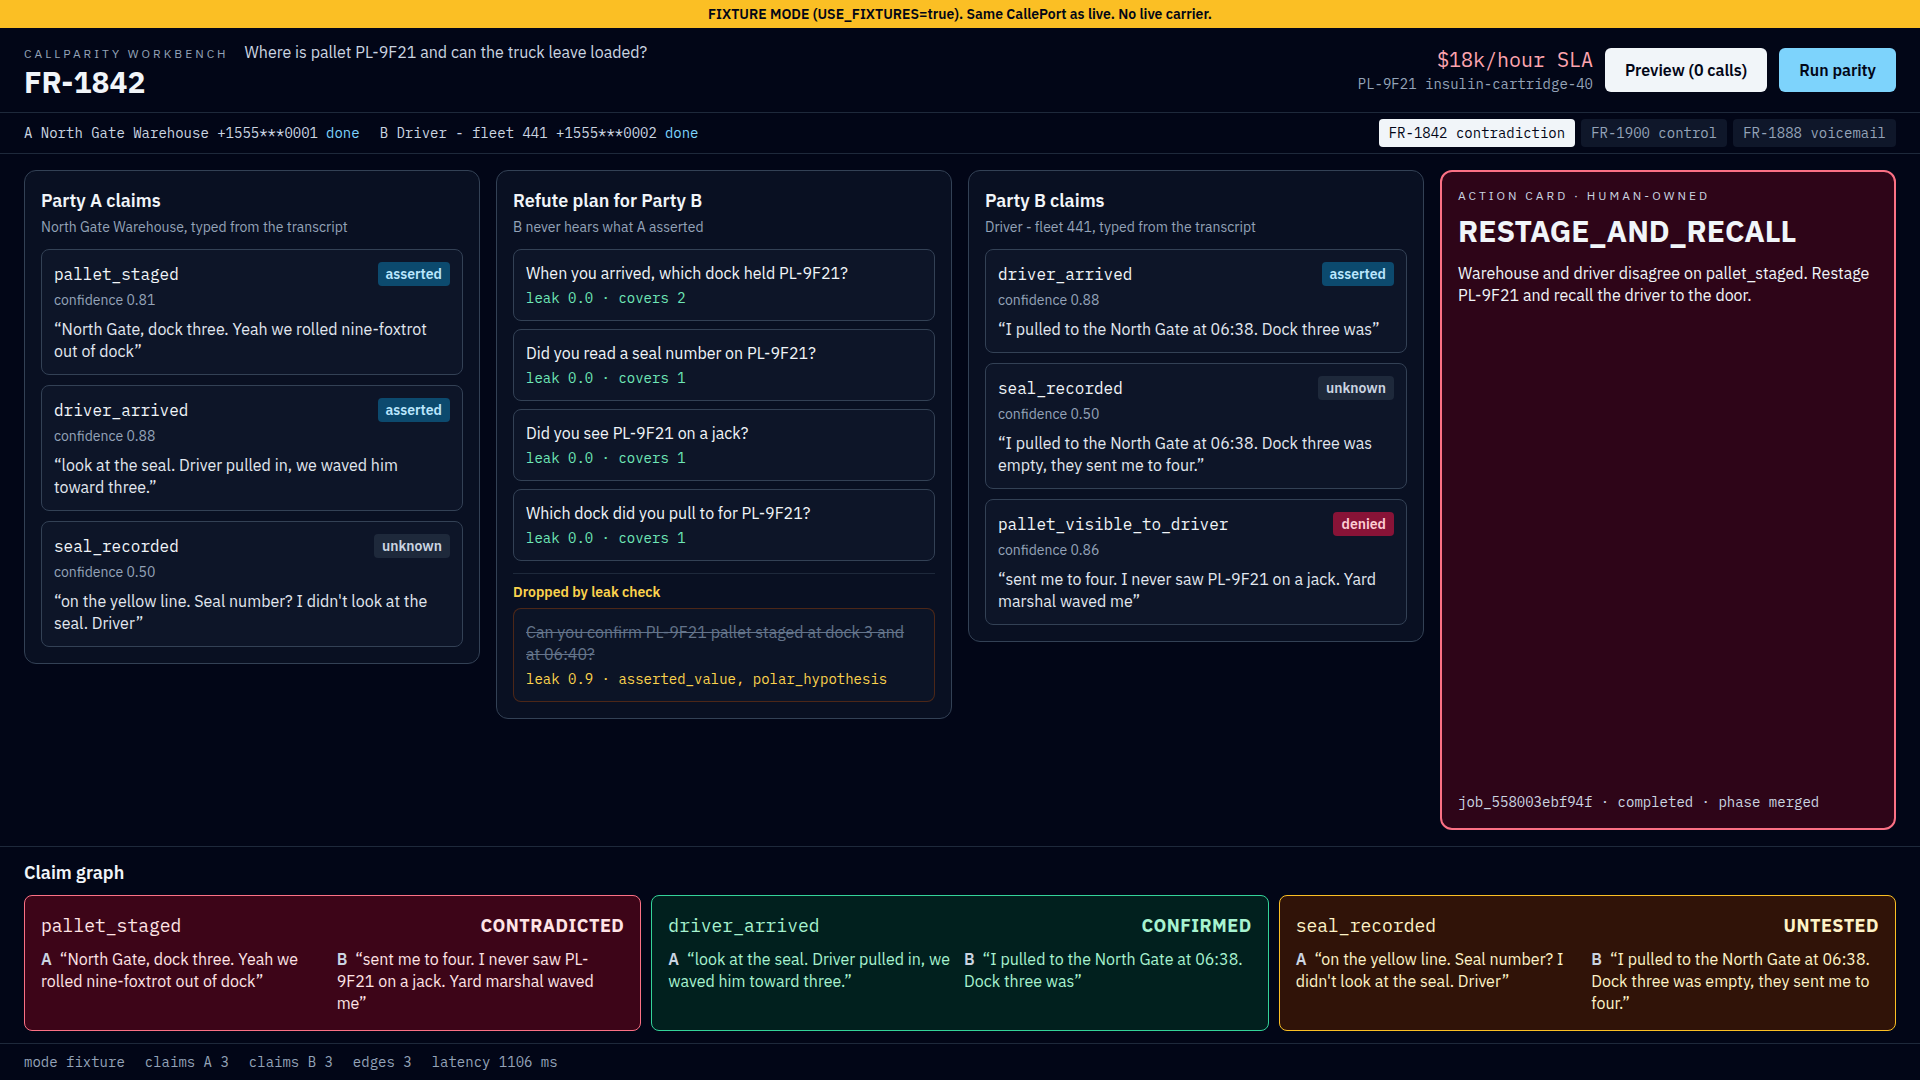
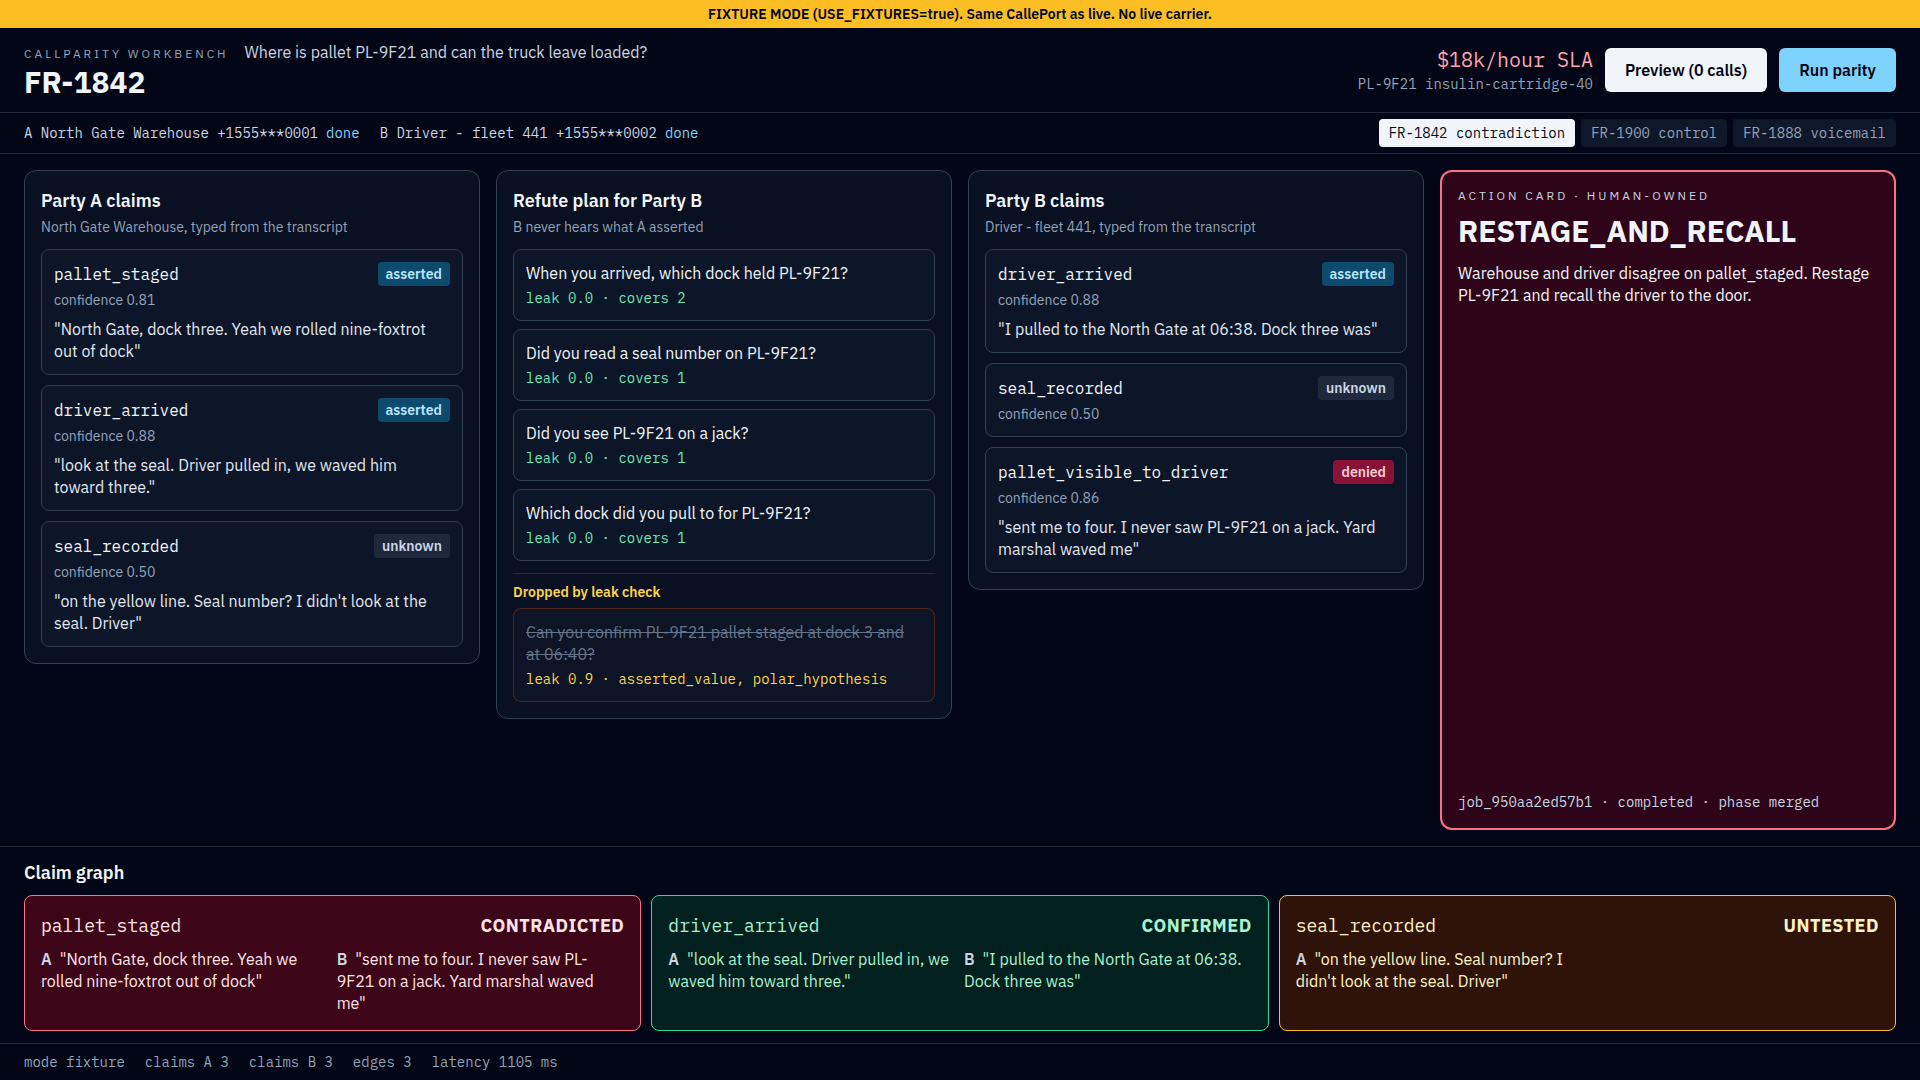
Never invent an evidence quote
span() returned the first 80 transcript chars when no needle matched,
so B's seal claim quoted text that never mentioned a seal. No match
now means no quote; the UNTESTED seal edge shows only A's span.
Workbench quotes render straight. Screenshot recaptured from the
running stack.

diff --git a/apps/web/src/App.jsx b/apps/web/src/App.jsx
@@ -69,7 +69,7 @@ function ClaimCard({ claim }) {
       </div>
       <p className="mt-1 text-sm text-slate-400">confidence {Number(claim.confidence).toFixed(2)}</p>
       {claim.evidence_span && (
-        <p className="mt-2 text-base leading-snug text-slate-200">&ldquo;{claim.evidence_span}&rdquo;</p>
+        <p className="mt-2 text-base leading-snug text-slate-200">&quot;{claim.evidence_span}&quot;</p>
       )}
     </li>
   );
@@ -86,13 +86,13 @@ function EdgeRow({ edge }) {
         {edge.a_span && (
           <p className="text-base leading-snug">
             <span className="mr-2 font-semibold text-slate-300">A</span>
-            &ldquo;{edge.a_span}&rdquo;
+            &quot;{edge.a_span}&quot;
           </p>
         )}
         {edge.b_span && (
           <p className="text-base leading-snug">
             <span className="mr-2 font-semibold text-slate-300">B</span>
-            &ldquo;{edge.b_span}&rdquo;
+            &quot;{edge.b_span}&quot;
           </p>
         )}
       </div>

diff --git a/apps/api/app/services/extractor.py b/apps/api/app/services/extractor.py
@@ -107,7 +107,8 @@ def span(transcript: str, needles: tuple[str, ...]) -> str:
                 if space > idx:
                     end = space
             return transcript[start:end].strip()
-    return transcript[:80]
+    # No needle spoken: no quote. An invented span would fake evidence.
+    return ""
 
 
 def _from_raw(ticket_id: str, role: PartyRole, run: RunView, raw: dict) -> Claim:
